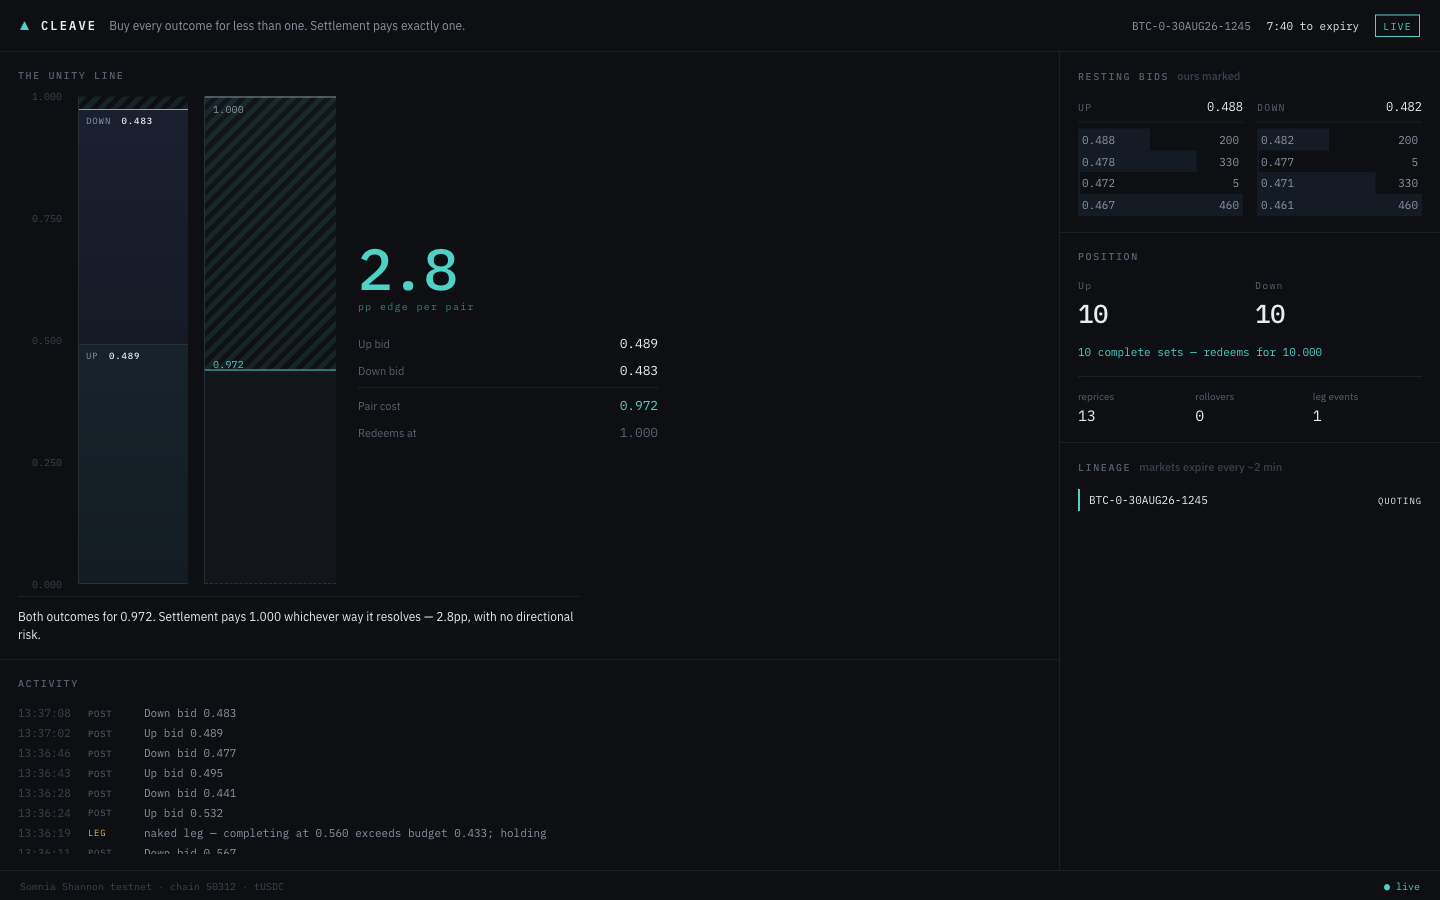
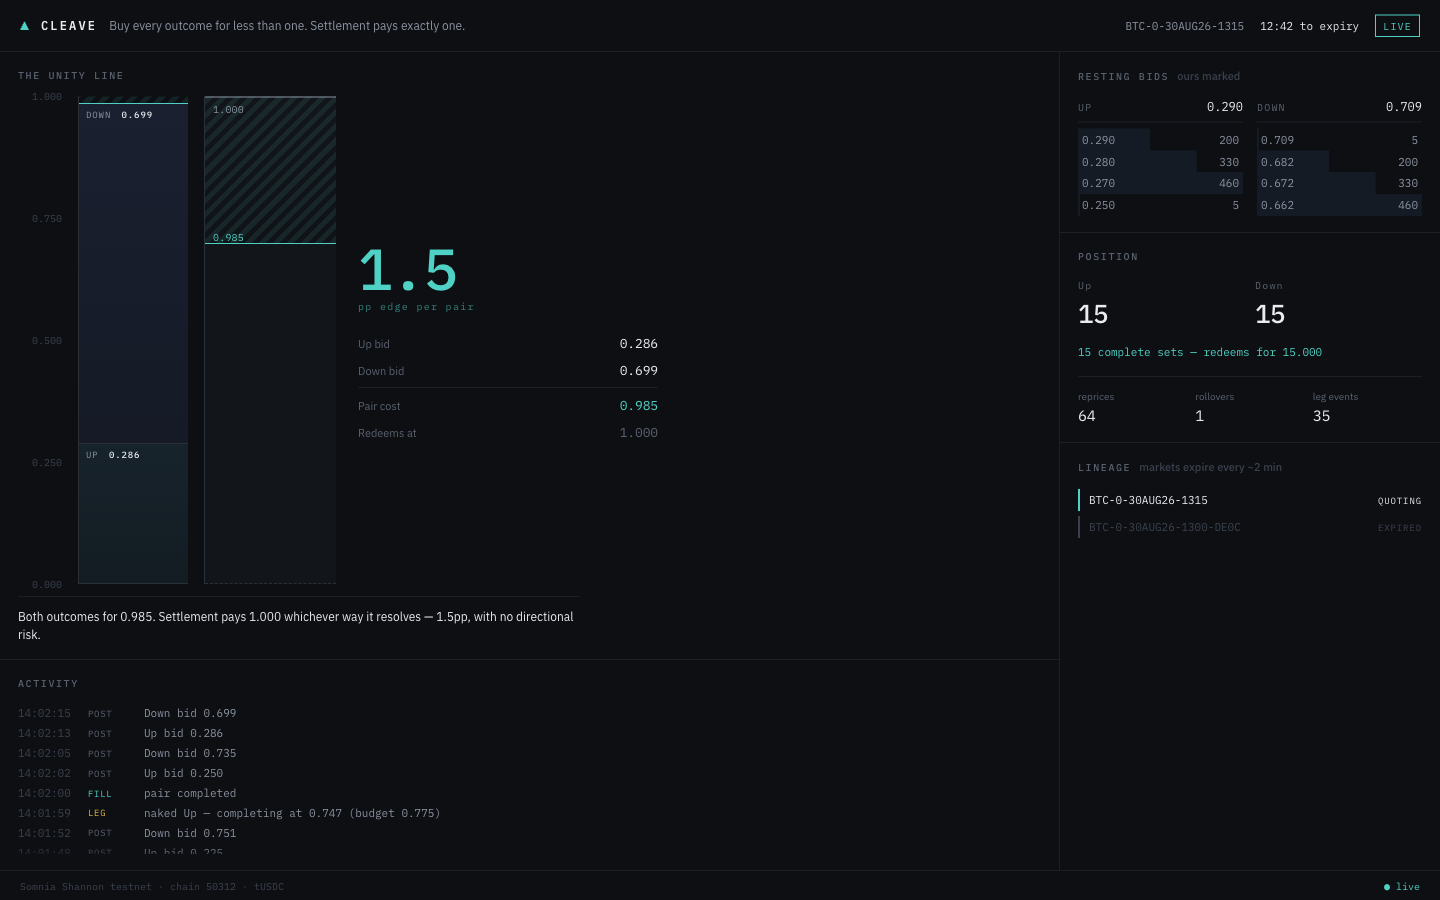
Lineage confirmed on a real rollover; record the render pass
Captured live at 64 reprices / 1 rollover / 35 leg events with 15 complete sets
held. Lineage shows the active market quoting and its predecessor expired, and
the activity log caught detect -> complete -> resume in three consecutive lines.

Documents the six defects that only rendering surfaced, and why the vernier
exists: a 1.5-3pp edge is a sliver at true scale, and inflating it would be a
lie.

diff --git a/docs/preflight-baseline.md b/docs/preflight-baseline.md
@@ -558,3 +558,50 @@ Also fixed here: `PostOnlyWouldCross` no longer kills the run. Losing a race to
 a moving book is routine — a maker that treats it as fatal stops quoting the
 moment the market gets interesting. And selection now skips markets with under
 60s of runway, which were being picked only to roll off immediately.
+
+---
+
+# The interface, rendered — 2026-08-30
+
+`npm run serve -- --live --short`. Real market, real books, our own bids marked.
+
+```
+market      BTC-0-30AUG26-1315        12:42 to expiry
+pair        0.985                     edge 1.5pp
+position    Up 15  Down 15            15 complete sets
+reprices    64      rollovers 1       leg events 35
+
+lineage     BTC-0-30AUG26-1315        QUOTING
+            BTC-0-30AUG26-1300-DE0C   EXPIRED
+
+activity    14:01:59  LEG   naked Up — completing at 0.747 (budget 0.775)
+            14:02:00  FILL  pair completed
+            14:02:02  POST  Up bid 0.250
+```
+
+Those three activity lines are the whole strategy in sequence: a leg fills, the
+imbalance is detected **on-chain**, the pair is completed only because 0.747 sits
+under the 0.775 budget, and quoting resumes. Unattended.
+
+## Defects found by rendering, not by reading
+
+All six were invisible in source and obvious in a screenshot:
+
+1. **The coarse column sized its own segments in px from its own
+   `clientHeight`** — but a flex column's height comes from its children, so it
+   grew to ~800px and stretched every other panel. Percentages of a bounded
+   parent, always.
+2. The edge number clipped: 52px type inside a 20px band.
+3. The verdict sentence collided with the readout.
+4. Countdown never carried minutes into hours — `692:17 to expiry`.
+5. A three-column grid left ~400px of dead space in two panels.
+6. Favicon 404.
+
+## The design decision the render forced
+
+The edge is 1.5–3pp. On a true 0→1 scale that is a sliver, and the honest options
+were to draw a sliver nobody can read or to inflate it and lie. Neither is
+acceptable, so the column keeps true scale and a **vernier** expands 0.950–1.000
+beside it — coarse for honesty, fine for legibility. That is how a measuring
+instrument handles a fine reading, and it is only available to a product with a
+fixed redemption value to measure against.
